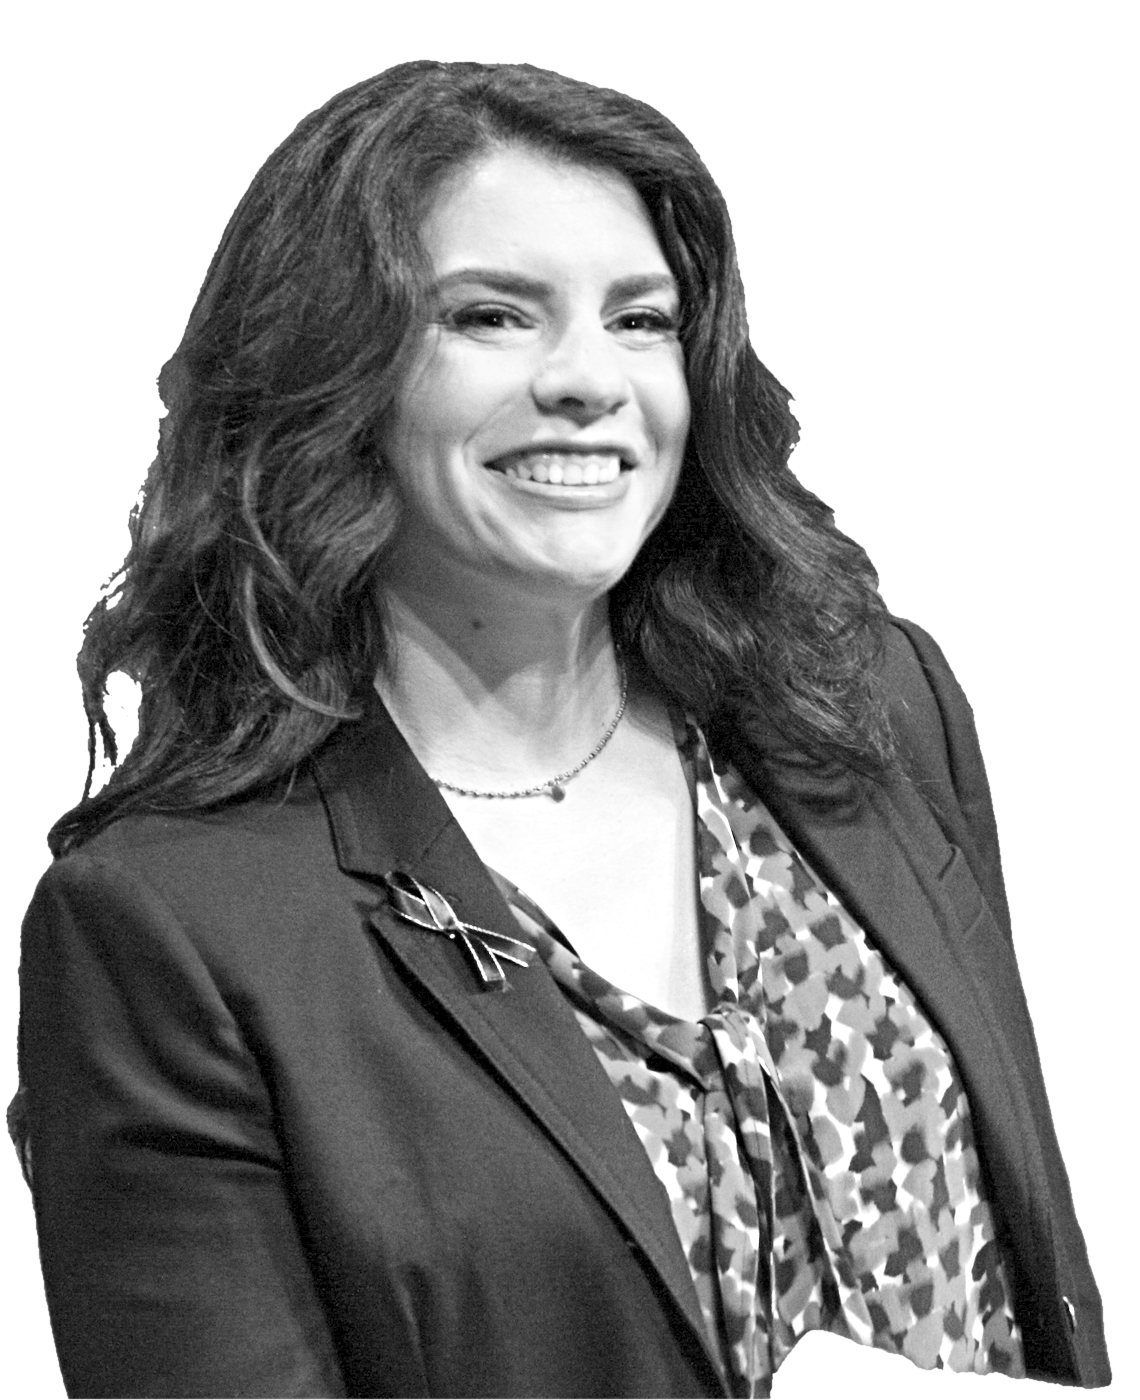
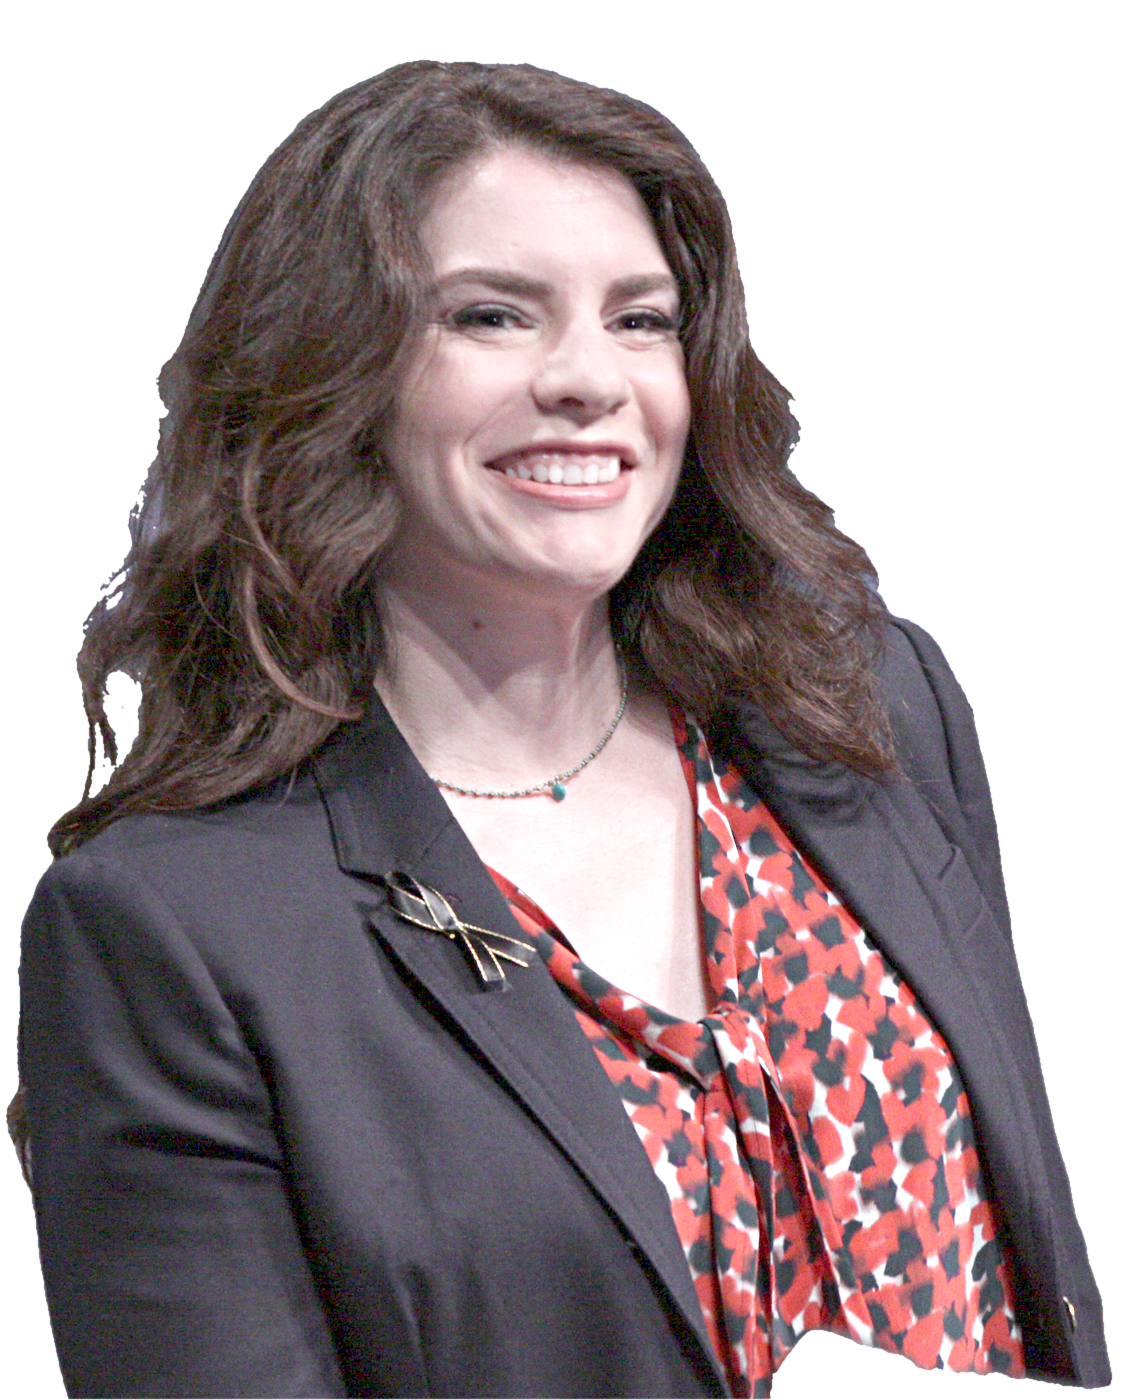
RichAuthors rev 3: the pictures in their own colours; rev 2's hard cuts, three still framings, layout, tape, red marks and labels unchanged. Rowling, Meyer and Collins and the Twilight and Hunger Games covers re-baked with bake-photo.py --colour and shown with XeroxCutOut colour (no photocopy grade)

diff --git a/scripts/clips/wip-ya-boom/bake-RichAuthors.py b/scripts/clips/wip-ya-boom/bake-RichAuthors.py
@@ -1,4 +1,5 @@
-"""Bake the photos and covers of RichAuthors (wip-ya-boom, cut 21) into public/wip-ya-boom/ with the kit's one grade.
+"""Bake the photos and covers of RichAuthors (wip-ya-boom, cut 21) into public/wip-ya-boom/ with the kit's one grade, in
+colour (rev 3: bake-photo.py --colour, the same levels and mid-tone per channel; the component passes `colour`).
 
 Covers are flat rectangles (no matte); people get the Apple Vision person matte first, then any stray background figure
 the matte caught is erased by a polygon (fractions of the image). Run from the kise repo root:
@@ -22,7 +23,7 @@ COVERS = [
     ("covers/cover_BreakingDawn.jpg", "ra_breakingdawn.png"),
     ("covers/cover_TheHungerGames.jpg", "ra_hungergames.png"),
 ]
-# (raw, out, extra bake args, erase polygons in image fractions)
+# (raw, out, extra bake args, erase polygons in image fractions, red despill at the matte edge)
 PEOPLE: list = [
     # the 1999 portrait: a dark figure behind her right shoulder is caught by the matte
     (
@@ -30,16 +31,37 @@ PEOPLE: list = [
         "ra_rowling.png",
         ["--max", "1200", "--mid", "0.4"],
         [[(0.6855, 0), (1, 0), (1, 0.625), (0.871, 0.558), (0.827, 0.417), (0.821, 0.233), (0.762, 0.067)]],
+        False,
     ),
-    # Time 100, 2010: the man beside her at the left edge is caught by the matte
+    # Time 100, 2010: the man beside her at the left edge is caught by the matte; in colour the red backdrop glows through
+    # the edge of her hair, so the edge gets a red despill
     (
         "portraits/portrait_SuzanneCollins_2010.jpg",
         "ra_collins.png",
         ["--max", "1400", "--mid", "0.42"],
         [[(0, 0), (0.158, 0), (0.158, 0.62), (0.105, 0.72), (0, 0.79)]],
+        True,
     ),
-    ("portraits/portrait_StephenieMeyer_2012_smiling_crop.jpg", "ra_meyer.png", ["--max", "1400", "--mid", "0.42", "--crop", "0,250,2376,3168"], []),
+    ("portraits/portrait_StephenieMeyer_2012_smiling_crop.jpg", "ra_meyer.png", ["--max", "1400", "--mid", "0.42", "--crop", "0,250,2376,3168"], [], False),
 ]
+
+
+def despill_red(path: str, k: float = 1.55, full: float = 40, fade: float = 50) -> None:
+    """Cap red at k x green near the matte edge (the backdrop's red caught in the hair): fully within `full` px of the edge,
+    fading out over the next `fade` px. Her hair inside runs R/G ~1.26 (p99 2.0 with lips and skin, all far from the edge),
+    the edge band ~2.3, so the cap only touches the spill."""
+    import numpy as np
+    from PIL import Image
+    from scipy.ndimage import distance_transform_edt
+
+    a = np.asarray(Image.open(path), dtype=np.float64)
+    d = distance_transform_edt(a[..., 3] > 127)
+    w = np.clip((full + fade - d) / fade, 0, 1)
+    r, g = a[..., 0], a[..., 1]
+    a[..., 0] = r - w * np.maximum(r - k * g, 0)
+    Image.fromarray(np.clip(a + 0.5, 0, 255).astype(np.uint8), "RGBA").save(path, optimize=True)
+    print(f"{path}: red despill at the edge")
+
 
 p = argparse.ArgumentParser()
 p.add_argument("--only", choices=["covers", "people"])
@@ -48,13 +70,13 @@ os.makedirs(OUT, exist_ok=True)
 
 if a.only in (None, "covers"):
     for raw, out in COVERS:
-        subprocess.run(BAKE + [os.path.join(RAW, raw), os.path.join(OUT, out), "--max", "900", "--mid", "0.5"], check=True)
+        subprocess.run(BAKE + [os.path.join(RAW, raw), os.path.join(OUT, out), "--max", "900", "--mid", "0.5", "--colour"], check=True)
 
 if a.only in (None, "people"):
     with tempfile.TemporaryDirectory() as tmp:
         from PIL import Image, ImageDraw
 
-        for raw, out, extra, erase in PEOPLE:
+        for raw, out, extra, erase, despill in PEOPLE:
             mask = os.path.join(tmp, out.replace(".png", "_mask.png"))
             subprocess.run(["swift", "scripts/clips/neal-stephenson-trailer/neal-matte.swift", os.path.join(RAW, raw), mask, "person"], check=True)
             if erase:
@@ -63,5 +85,7 @@ if a.only in (None, "people"):
                 for poly in erase:
                     d.polygon([(x * m.width, y * m.height) for x, y in poly], fill=0)
                 m.save(mask)
-            subprocess.run(BAKE + [os.path.join(RAW, raw), os.path.join(OUT, out), "--matte", mask, "--max", "1400"] + extra, check=True)
+            subprocess.run(BAKE + [os.path.join(RAW, raw), os.path.join(OUT, out), "--matte", mask, "--max", "1400"] + extra + ["--colour"], check=True)
+            if despill:
+                despill_red(os.path.join(OUT, out))
 sys.exit(0)
